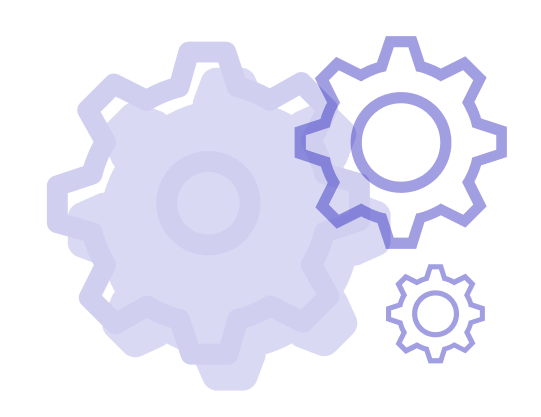
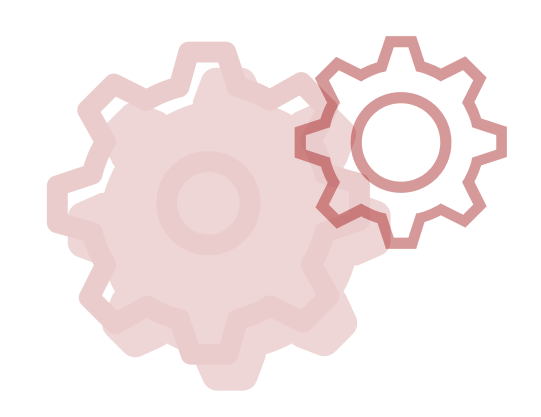
about us and UI changes

diff --git a/src/components/Homepage/HomePage.js b/src/components/Homepage/HomePage.js
@@ -5,33 +5,38 @@ import { AiOutlineArrowRight } from "react-icons/ai";
 
 function HomePage() {
   return (
-    <div className="Homepage-component">
-      <section className="wrapper">
-        <p className="welcome">Welcome to</p>
-        <p className="Alpha-great">
-          <span className="alpha">alpha</span>{" "}
-          <span className="great">Great</span>
-        </p>
-        <div className="Welcome-rectangle"></div>
-        <div className="Welcome-text">
-          <p>
-            Alpha is a company dedicated to advancing the world of Science,
-            Technology, Engineering and Mathematics (STEM). We achieve this goal
-            by one – inspiring students to practice STEM knowledge and build
-            solutions, two – build first-class web, mobile and cloud
-            applications for start-ups and enterprises. We help organizations
-            across the private, public, and social sectors create the change
-            that matter most to them. From the C-Suite to the front line we
-            partner with clients to transform their organisations, embed
-            technology into everything they do, and build enduring capabilities.
-            We are a community of students, STEM field professionals, committed
-            to transforming lives and shaping a better technological world.
+    <section className="Homepage-component">
+      <div className="wrapper">
+        <div className="gradient">
+          <p className="welcome">Welcome to</p>
+          <p className="Alpha-great">
+            <span className="alpha">alpha</span>{" "}
+            <span className="great">Great</span>
           </p>
-          <button className="Operations-btn" role="button">
-            Operations <AiOutlineArrowRight />
-          </button>
+          <div className="Welcome-group">
+            <div className="Welcome-rectangle"></div>
+            <div className="Welcome-text">
+              <p>
+                Alpha is a company dedicated to advancing the world of Science,
+                Technology, Engineering and Mathematics (STEM). We achieve this
+                goal by one – inspiring students to practice STEM knowledge and
+                build solutions, two – build first-class web, mobile and cloud
+                applications for start-ups and enterprises. We help
+                organizations across the private, public, and social sectors
+                create the change that matter most to them. From the C-Suite to
+                the front line we partner with clients to transform their
+                organisations, embed technology into everything they do, and
+                build enduring capabilities. We are a community of students,
+                STEM field professionals, committed to transforming lives and
+                shaping a better technological world.
+              </p>
+              <button className="Operations-btn" role="button">
+                Operations <AiOutlineArrowRight />
+              </button>
+            </div>
+          </div>
         </div>
-      </section>
+      </div>
       <article className="Pres-speech">
         <p>
           The basic purpose behind STEM education is really solving problems,
@@ -46,13 +51,13 @@ function HomePage() {
           create a better world for us all. YES, WE CAN!
         </p>
         <div className="Speech-by">
-          <div className="Speaker-rectangle"></div>
+          <div className="Home-rectangle"></div>
           <p>Emmanuel Donkor</p>
           <p>Founder and President, Alpha Great</p>
         </div>
       </article>
       <img src={screws} className="screws" alt="screws" />
-    </div>
+    </section>
   );
 }
 

diff --git a/src/components/Homepage/Homepage.css b/src/components/Homepage/Homepage.css
@@ -3,11 +3,28 @@
     flex-direction: column;
 }
 
+.Homepage-component .Welcome-group {
+    display: flex;
+    margin-top: 2%;
+}
+
 .Homepage-component .wrapper{
     height: 50em;
     background: no-repeat center url('../../../public/home.png');
     background-size: cover;
     opacity: 0.9;
+    border-bottom-left-radius: 45%;
+    border-bottom-right-radius: 45%;
+}
+.Homepage-component .gradient {
+    background-image: linear-gradient(to right, hsla(0, 100%, 30%, 0.863) , rgba(255, 255, 255, 0.452));;
+    position: absolute;
+    top: 0;
+    left: 0;
+    width: 100%;
+    height: 128%;
+    border-bottom-left-radius: 45%;
+    border-bottom-right-radius: 45%;
 }
 
 .Homepage-component .Welcome-text {
@@ -19,7 +36,7 @@
     height: 0.5em;
     width: 5em;
     background-color: #fff;
-    margin-top: 2%;
+    margin-right: -8%;
 }
 
 .Homepage-component .Welcome-text {
@@ -54,7 +71,7 @@
 }
 
 .Homepage-component .great {
-    color: #1310B6;
+    color: #fff;
 
 }
 
@@ -68,11 +85,12 @@
     width: 18em;
     height: 6em;
     margin-top: 3%;
-    align-self: end;
+    align-self: flex-start;
     cursor: pointer;
 }
 
-.Homepage-component .Pres-speech {
+.Homepage-component .Pres-speech,
+.Homepage-component .Operations-intro {
     width: 80vw;
     align-self: center;
     margin-top: 3%;
@@ -85,13 +103,15 @@
     align-self: flex-end;
 }
 
-.Homepage-component .Speaker-rectangle {
+.Homepage-component .Home-rectangle {
     height: 0.8em;
     width: 5em;
-    background-color: #1310B6;
+    background-color: var(--crimson);
     margin-top: 5%;
 }
 
 .Homepage-component .screws {
     width: 20%;
 }
+
+

diff --git a/src/App.js b/src/App.js
@@ -1,19 +1,17 @@
-import React, { Component } from 'react';
-import './App.css';
-import Navbar from './components/Navbar/Navbar';
-import HomePage from './components/Homepage/HomePage';
-import AboutUs from './components/AboutUs/AboutUs';
-import CoreValueTop from './components/AboutUs/CoreValue/CoreValueTop';
-import CoreValueDown from './components/AboutUs/CoreValue/CoreValueDown';
-import Footer from './components/Footer/Footer';
+import React, { Component } from "react";
+import "./App.css";
+import Navbar from "./components/Navbar/Navbar";
+import HomePage from "./components/Homepage/HomePage";
+import AboutUs from "./components/AboutUs/AboutUs";
+import Footer from "./components/Footer/Footer";
 
 class App extends Component {
   render() {
     return (
       <div className="App">
-        {/* <Navbar /> */}
-        {/* <HomePage /> */}
-        {/* <AboutUs /> */}
+        <Navbar />
+        <HomePage />
+        <AboutUs />
         <Footer />
       </div>
     );

diff --git a/src/components/AboutUs/AboutUs.js b/src/components/AboutUs/AboutUs.js
@@ -19,7 +19,7 @@ function AboutUs() {
       <section className="vision">
         <img src={img} alt="up arrow" className="Vision-img" />
         <div className="Vision-text">
-          <h2>Our Vision</h2>
+          <h2><span className="our">Our</span> Vision</h2>
           <p>
             To be a centre of excellence in impacting STEM knowledge, skill and
             innovations among students. To build a great organization that
@@ -29,7 +29,7 @@ function AboutUs() {
         </div>
       </section>
       <section className="mission">
-        <h2>Our Mission</h2>
+        <h2><span className="our">Our</span> Mission</h2>
         <p>
           We believe that we are on this earth to improve and make life better.
           Our goal is to empower students to apply knowledge acquired in

diff --git a/src/components/AboutUs/AboutUs.css b/src/components/AboutUs/AboutUs.css
@@ -1,10 +1,13 @@
-.About-Us-Component {
+.About-Us-Component .vision, .About-Us-Component .mission {
     margin-left: 10%;
-    border: 1px solid green;
+}
+
+.About-Us-Component .our {
+    display: block;
 }
 
 .About-Us-Component .Vision-img {
-    height: 46em;
+    height: 35em;
     margin-right: 2%;
 }
 
@@ -23,20 +26,19 @@
     width: 50%;
 }
 
+.About-Us-Component .Vision-text  {
+    width: 50%;
+}
+
 .About-Us-Component .Vision-text p, 
 .About-Us-Component .mission p{
     line-height: 1.5em;
-}
-
-.About-Us-Component h2 {
-    font-size: 6em;
 }
 
 .About-Us-Component .Core-values {
     display: flex;
     align-items: center;
     justify-content: center;
-    border: 1px solid blue;
 }
 
 .About-Us-Component .values {

diff --git a/src/components/Footer/Footer.js b/src/components/Footer/Footer.js
@@ -44,11 +44,13 @@ function Footer(props) {
             <img src={lin} className="s-img" alt="linkedin logo" />
           </a>
         </div>
-        <p>Alpha Great</p>
-        <p>Spintex. Rd, Shell bus stop</p>
-        <p>P. O. Box TN 1717</p>
-        <p>Tel: +233 (0)559120555/ 247736843 / 246076373</p>
-        <p>alphagreatgroup@gmail.com</p>
+        <div className="Contact-info">
+          <p>Alpha Great</p>
+          <p>Spintex. Rd, Shell bus stop</p>
+          <p>P. O. Box TN 1717</p>
+          <p>Tel: +233 (0)559120555/ 247736843 / 246076373</p>
+          <p>alphagreatgroup@gmail.com</p>
+        </div>
       </div>
     </footer>
   );

diff --git a/src/components/Footer/Footer.css b/src/components/Footer/Footer.css
@@ -6,6 +6,7 @@
     align-items: center;
     height: 15em;
     padding: 2em;
+    margin-top: 11%;
 }
 
 .Footer-component .Footer-logo {
@@ -59,4 +60,8 @@
 
 .Footer-component .s-img {
     margin-right: 2%;
+}
+
+.Footer-component .Contact-info {
+    margin-top: 2%;
 }

diff --git a/src/App.css b/src/App.css
@@ -8,3 +8,8 @@
 :root {
   --crimson: #990000;
 }
+
+h2 {
+  color: var(--crimson);
+  font-size: 4em;
+}
